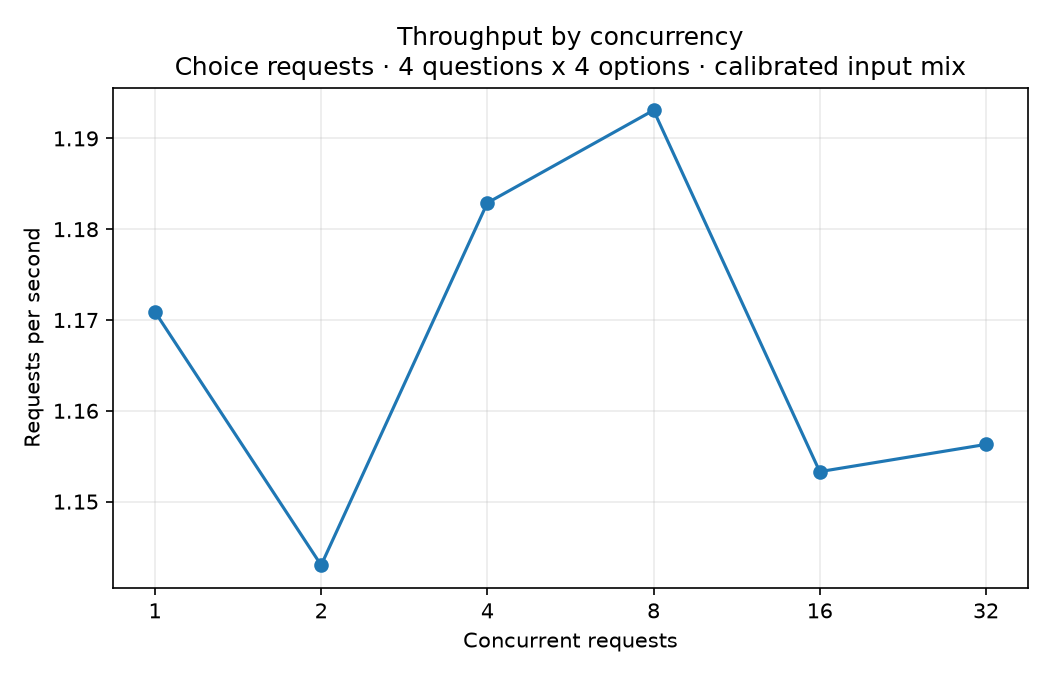
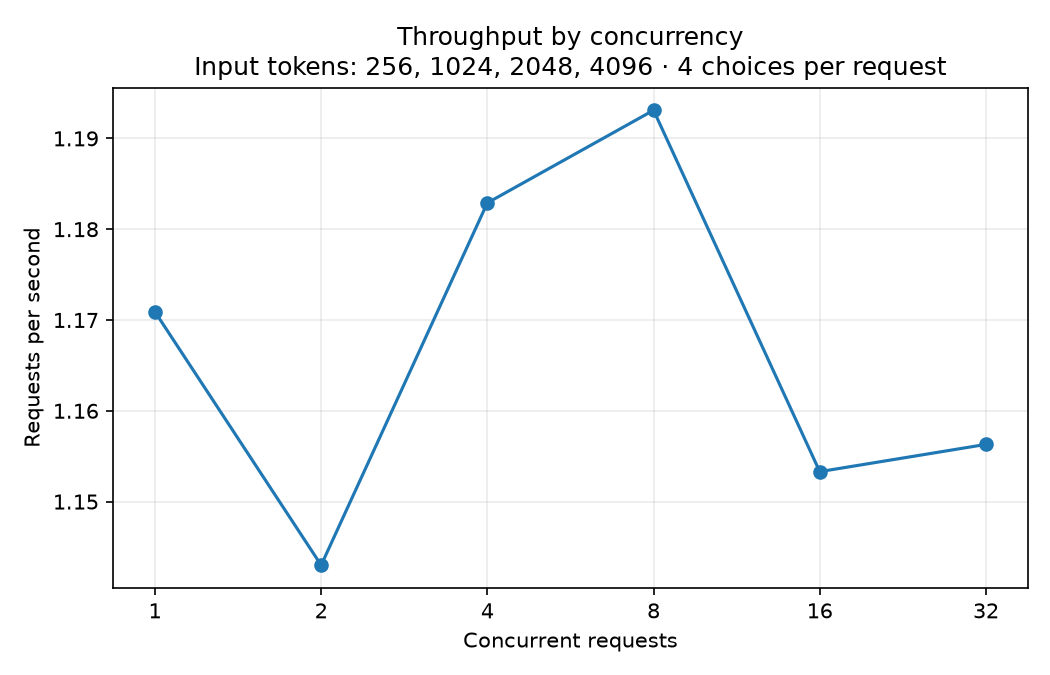
docs(benchmark): clarify throughput workload

Changed region(s): [[0.1829, 0.0622, 0.9143, 0.1244]]

diff --git a/benchmark/runner/reporting.py b/benchmark/runner/reporting.py
@@ -128,7 +128,7 @@ def write_plots(
         ticks = sorted(concurrency_ticks)
         ax.set_xticks(ticks, ticks)
         ax.set_title(
-            "Throughput by concurrency\nChoice requests · 4 questions x 4 options · calibrated input mix"
+            "Throughput by concurrency\nInput tokens: 256, 1024, 2048, 4096 · 4 choices per request"
         )
         if len(summaries) > 1:
             ax.legend(fontsize=8)
